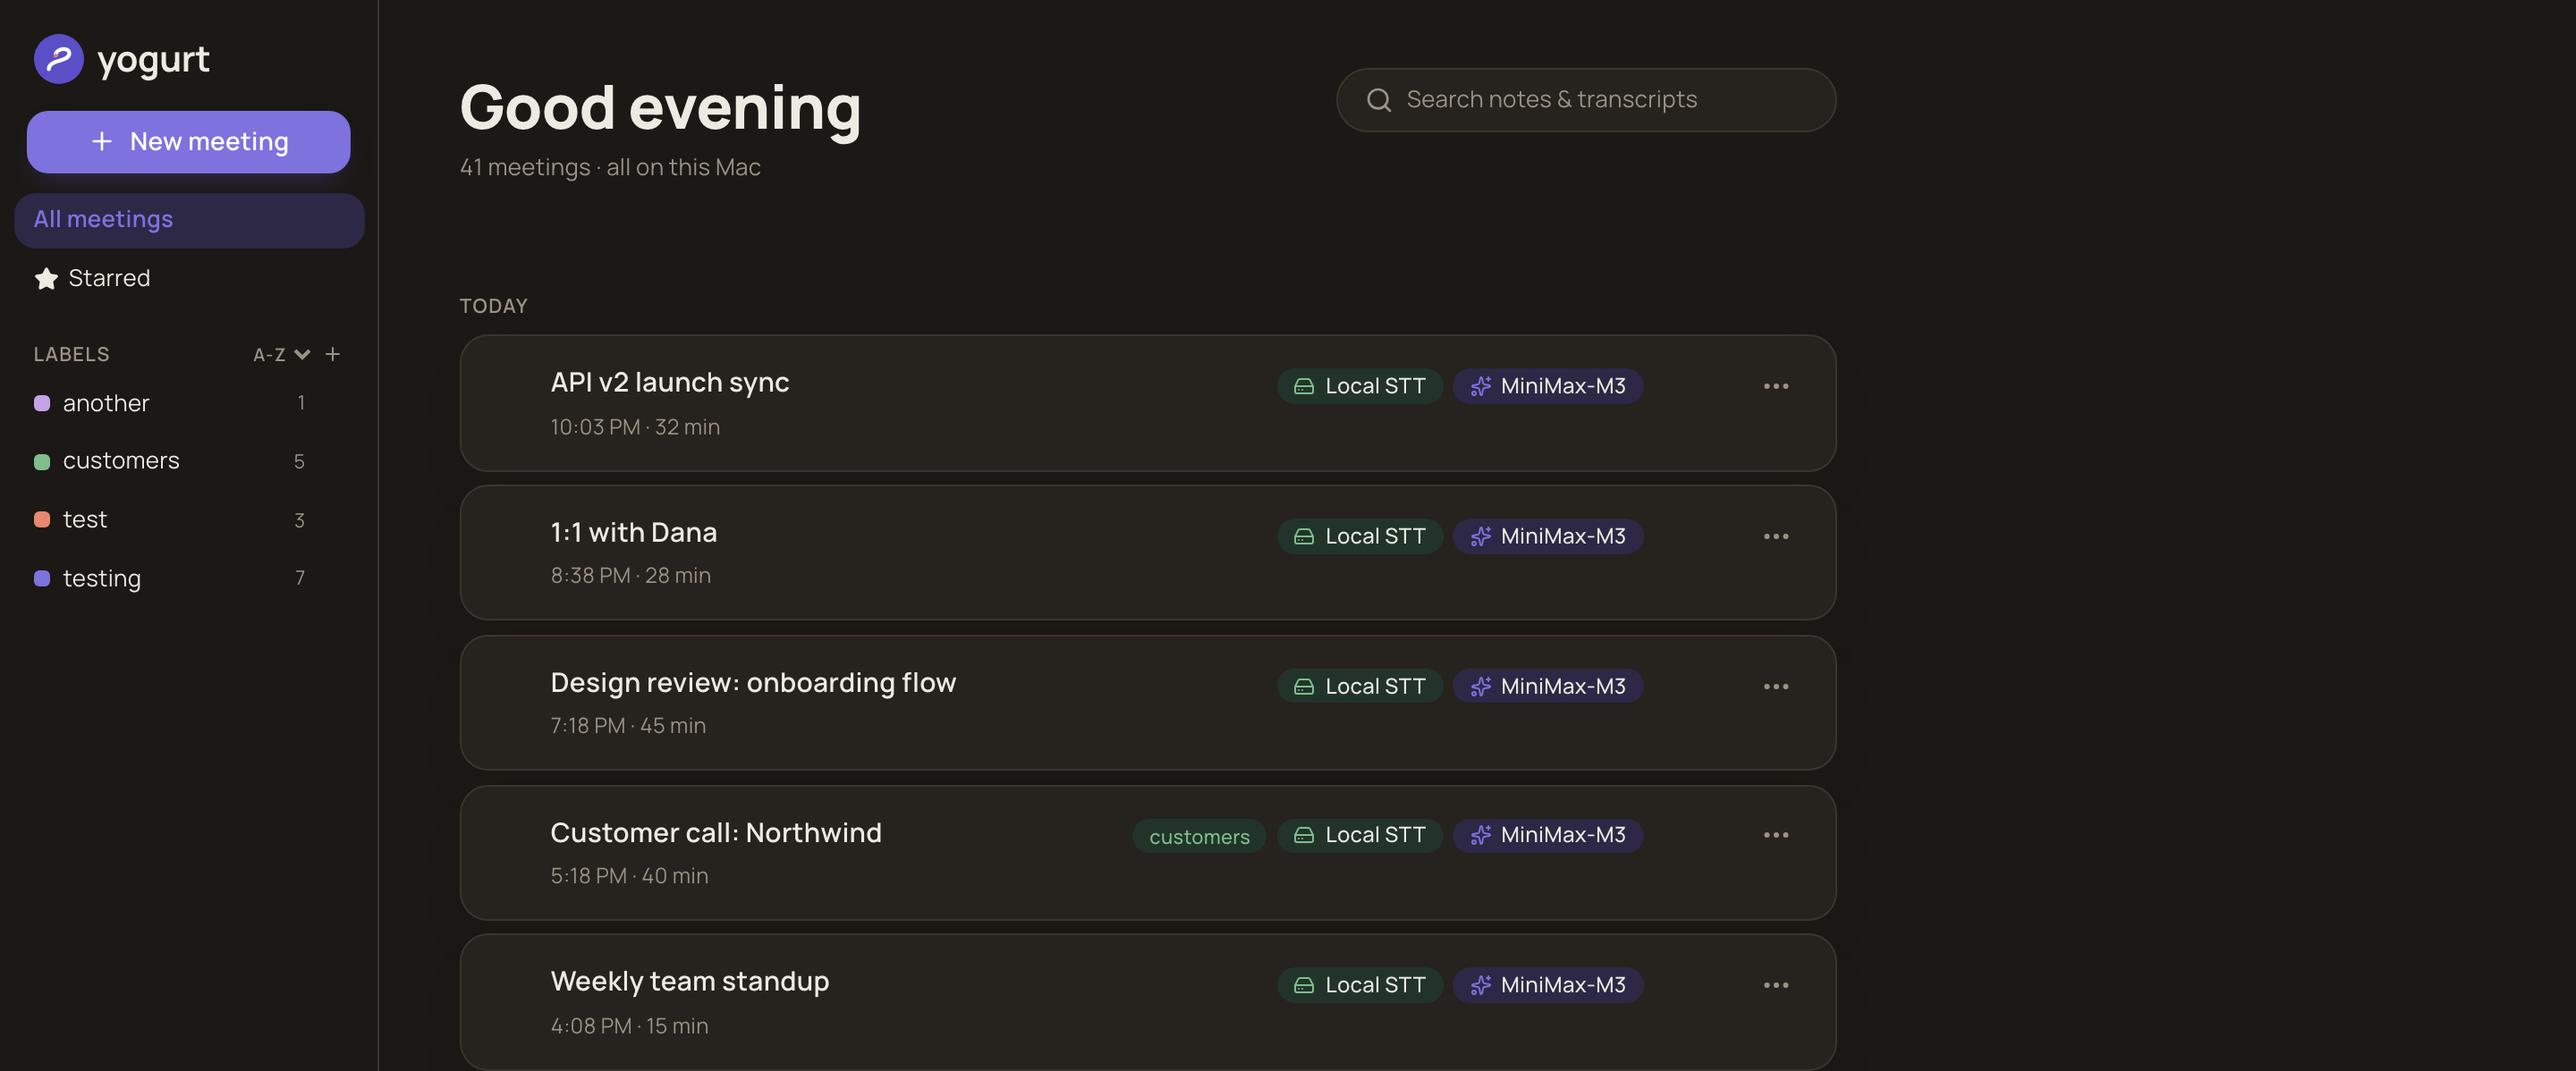
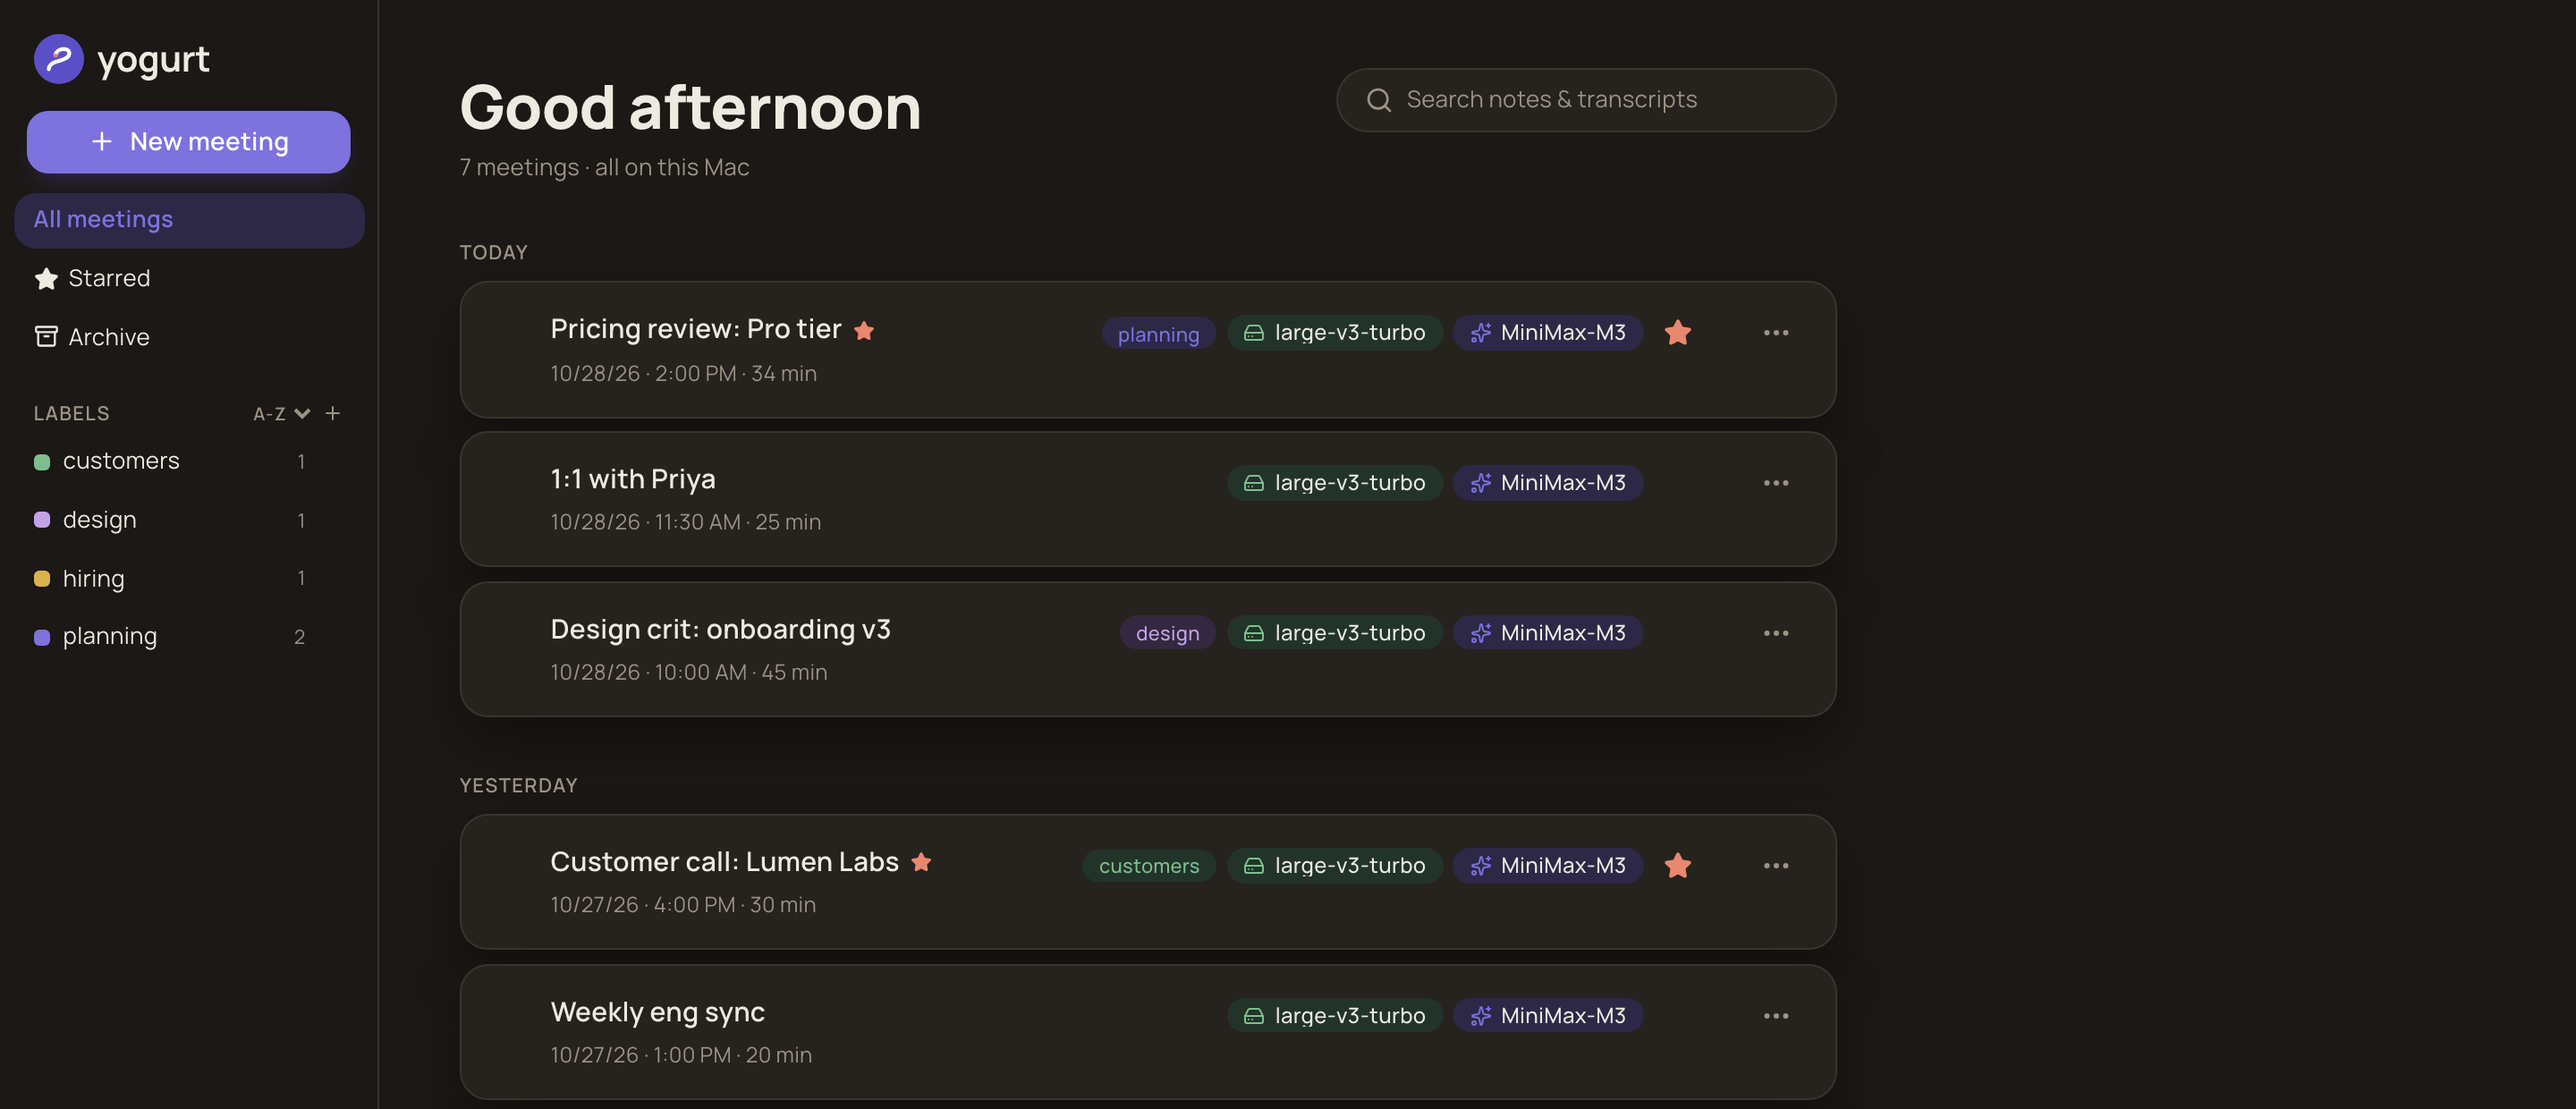
DX-21: Add a Features section to the README and retake its screenshots

diff --git a/README.md b/README.md
@@ -1,7 +1,7 @@
 # yogurt
 
 <p align="center">
-  <img src="docs/screenshots/notes.png" alt="A finished meeting in yogurt: augmented notes on the left, each AI-added line linking back to its moment in the transcript on the right" width="900">
+  <img src="docs/screenshots/notes.png" alt="A finished meeting in yogurt: your notes in white, the lines the LLM added in grey with a timestamp link each, and the transcript on the right" width="900">
 </p>
 
 > Local-first, open-source meeting copilot for macOS. Granola's UX, your machine.
@@ -17,22 +17,57 @@ Bring your own OpenAI-compatible LLM (Minimax, OpenAI, OpenRouter, local
 Ollama, whatever you already pay for).
 Optionally, Yogurt Cloud lets you read your meetings on your phone, from a webapp on your own Vercel and Supabase accounts.
 
-**Status:** 1.0, stable.
+**Status:** stable.
 Released as a Homebrew tap and as GitHub Releases tarballs; see [docs/RELEASE-LOG.md](docs/RELEASE-LOG.md) for the release log.
 Building from source still works and is documented below.
 
+## Features
+
+**Capture**
+
+- Records your microphone and the Mac's system audio without a bot joining the call, and transcribes live with local whisper.cpp or Deepgram.
+- A live recap in the transcript dock adds a few bullets about the discussion every 3 minutes, with Pause and Update now.
+- Mute the mic with one key, switch mic devices mid-meeting, or echo the mic to another output.
+- Offers to record when a meeting window opens, and stops on its own when the call ends or goes quiet.
+
+**Notes**
+
+- After the meeting, your bullets stay as written and the LLM fuses in what was said, each line linked to its moment in the transcript.
+- Picks a note format for the kind of meeting, or uses the one you choose, and re-enhances on demand.
+- Chat with one meeting, or ask a question across all of them from the Library and see which meetings the answer came from.
+- Every meeting is also a Markdown file on disk.
+
+**Library**
+
+- Search across notes and transcripts, star meetings, sort them under labels, and archive what you want out of the way but kept.
+
+**Your data**
+
+- Bring your own OpenAI-compatible LLM, or a local CLI agent: Claude Code, Cursor Agent, or OpenCode.
+- Import your Granola notes, with their summaries, transcripts, and folders as labels.
+- [Read every Mac's meetings on your phone](#read-on-your-phone) from Yogurt Cloud, a webapp on your own Vercel and Supabase accounts.
+
+**Automation**
+
+- [`yogurt ctl`](#yogurt-ctl) reads and controls a running instance from the shell.
+- [Paste a meeting URL at a coding agent](#ask-an-agent-about-a-meeting) and it can answer questions about that meeting.
+
+The full list, with where each feature lives in the app, is [docs/FEATURES.md](docs/FEATURES.md).
+
 ## What it looks like
 
-The Library groups every meeting by day, with search over notes and transcripts, stars, and labels in the sidebar.
+The Library groups every meeting by day, with search over notes and transcripts, stars, labels, and the Archive in the sidebar.
+From the Library you can also ask one question across all of your meetings.
 
 <p align="center">
-  <img src="docs/screenshots/library.png" alt="The yogurt Library: meetings grouped by day, each card showing its transcription engine and LLM" width="900">
+  <img src="docs/screenshots/library.png" alt="The yogurt Library: meetings grouped by day under Today and Yesterday, each card showing its labels, transcription model, and LLM" width="900">
 </p>
 
-During a meeting you type sparse bullets on the left while the transcript streams in on the right, with mic mute and device switching one keystroke away.
+During a meeting you type sparse bullets on the left.
+On the right, the live recap sums up the discussion every few minutes, and the Transcript tab streams every line as it is said.
 
 <p align="center">
-  <img src="docs/screenshots/live.png" alt="A live meeting in yogurt: notes editor with the live transcript dock open, mic and echo controls above" width="900">
+  <img src="docs/screenshots/live.png" alt="A live meeting in yogurt: the notes editor and mic controls on the left, and the live recap's timestamped bullets on the right" width="900">
 </p>
 
 After the meeting (top of this page), your bullets stay as you wrote them.
@@ -159,6 +194,11 @@ It is optional and off until you connect it.
 - Deploy it once by following the guide, then create your Cloud login and choose a PIN.
 - Connect each Mac in Settings, then Cloud sync, and push by hand or on an interval.
 - On the phone, read every Mac's meetings with their notes, enhanced notes, and transcript, and look back at the library as of any earlier push.
+
+<p align="center">
+  <img src="docs/screenshots/phone-library.png" alt="The Yogurt Cloud webapp on a phone: meetings grouped by day, each tagged with the Mac that pushed it" width="300">
+  <img src="docs/screenshots/phone-meeting.png" alt="A meeting's enhanced notes in the Yogurt Cloud webapp on a phone, with Notes, Enhanced, and Transcript tabs" width="300">
+</p>
 
 The setup guide, including how it works and who can read what, is [docs/CLOUD-SYNC.md](docs/CLOUD-SYNC.md).
 

diff --git a/docs/TODO-DONE.md b/docs/TODO-DONE.md
@@ -1480,3 +1480,9 @@ New closed items go at the bottom.
 
   The Cloud sync page and `yogurt ctl cloud status` show the size of the meetings not pushed and a rough time to push them, from the batch count at about 3 seconds a batch plus the pause between batches.
   While a push runs, both show the time left at the pace so far.
+
+- [x] **DX-21** Add a Features section to the README and retake its screenshots, with two of the Yogurt Cloud webapp on a phone
+
+  The README gains a Features section grouped by Capture, Notes, Library, Your data, and Automation, linking to docs/FEATURES.md for the full list.
+  The Library, live meeting, and notes screenshots were retaken from a fresh data dir of made-up meetings enhanced by MiniMax-M3, and the live one shows the recap from a real `say` recording.
+  Two phone screenshots of the webapp, taken against the local Supabase stack, go under Read on your phone.
